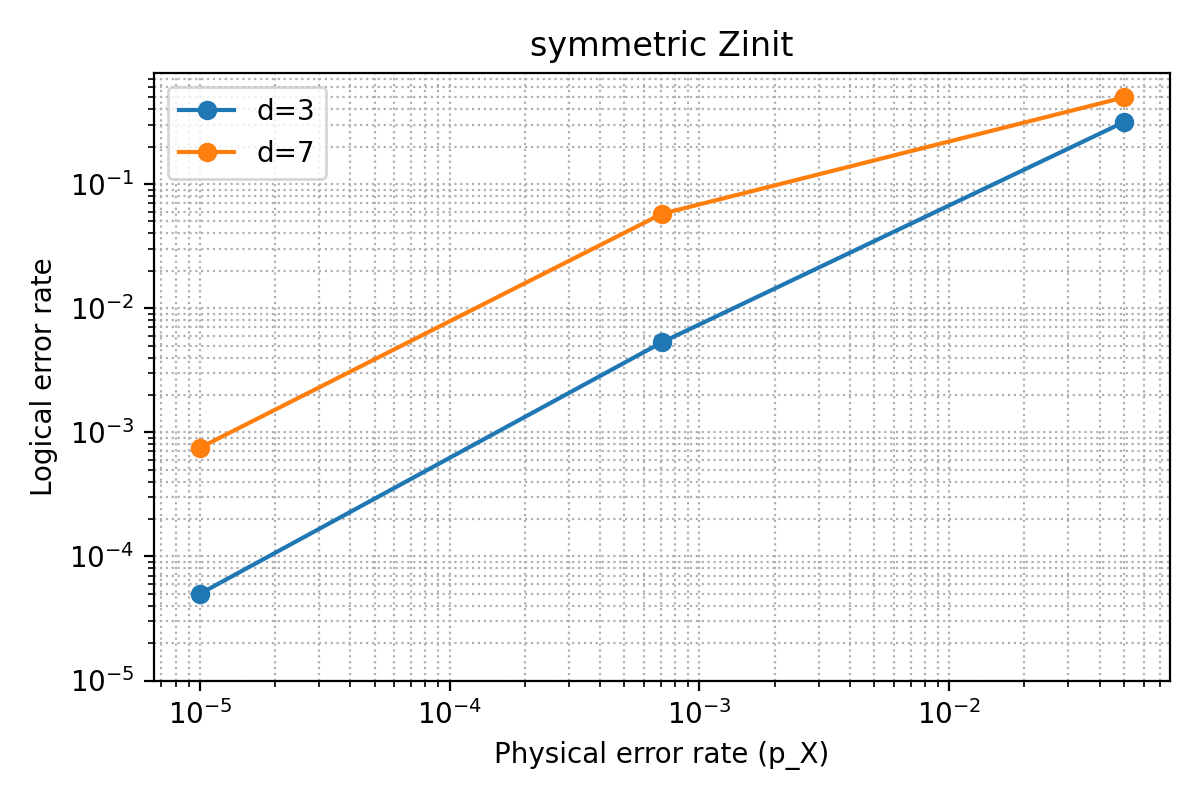
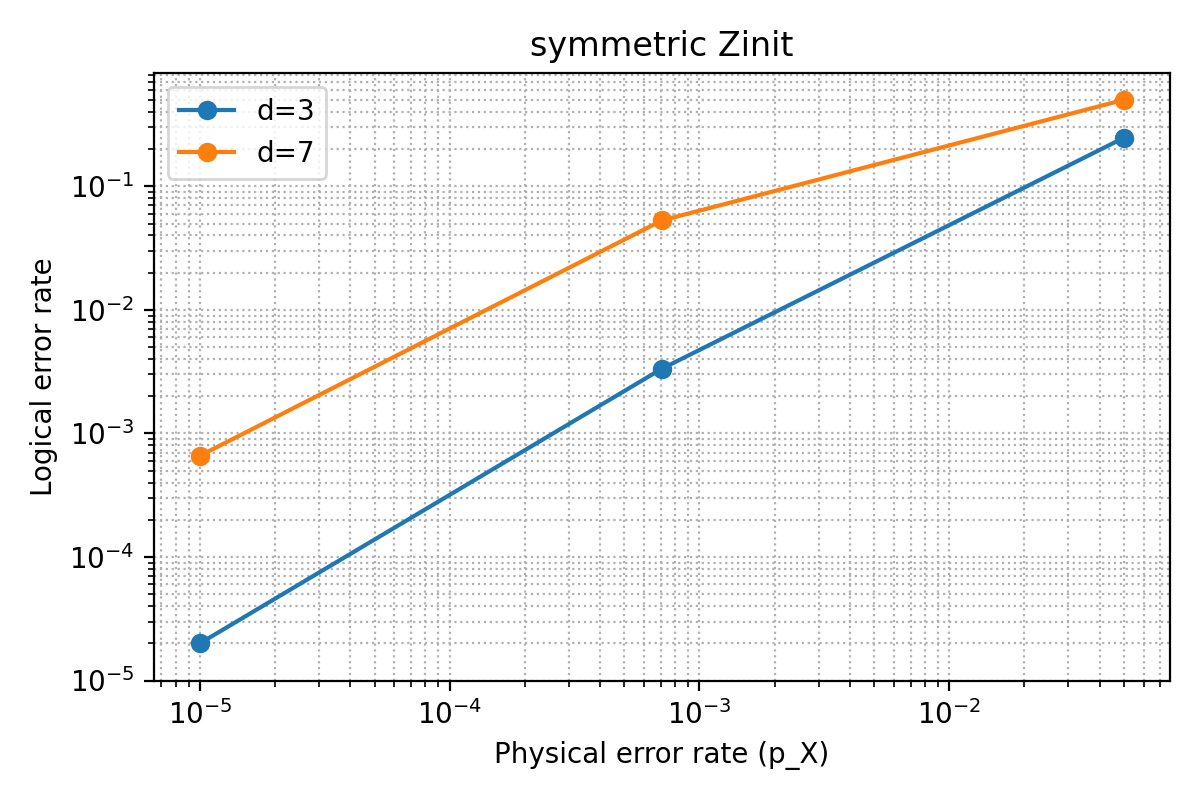
at least lattice surgery suppresses error

diff --git a/src/surface_code/measurement_half.py b/src/surface_code/measurement_half.py
@@ -107,14 +107,6 @@ class MeasurementHalf:
             # (No spatial detectors are emitted here; spatial connectivity is
             # captured via error hyperedges in the DEM and temporal chaining.)
             
-            # Pad state.prev dictionary to number of stabilizers for each name
-            for name in names:
-                stabs = self.builder.layout.patches[name].z_stabs if self.basis == "Z" else self.builder.layout.patches[name].x_stabs
-                if name not in prev_dict:
-                    prev_dict[name] = [None] * len(stabs)
-                elif len(prev_dict[name]) < len(stabs):
-                    prev_dict[name].extend([None] * (len(stabs) - len(prev_dict[name])))
-            
             # Process each patch
             for name in names:
                 # Segment tracking: update last seen; first is set on first temporal edge
@@ -139,8 +131,17 @@ class MeasurementHalf:
                             detector_manager.mark_row_dynamic(name, self.basis, int(skipped))
                 
                 # Record temporal detector edges (absolute measurement indices) for non-skipped rows
-                p_list = list(prev_dict.get(name, []))
+                # CRITICAL: Get prev_dict fresh from state to ensure we have the latest values
+                # After warmup round, state.prev.z_prev/x_prev gets reassigned, so we need to refresh the reference
+                # Refresh prev_dict reference to ensure we have the latest state after potential reassignment
+                prev_dict_refresh = state.prev.z_prev if self.basis == "Z" else state.prev.x_prev
+                p_list = list(prev_dict_refresh.get(name, []))
                 c_list = list(meas_curr.get(name, []))
+                
+                # Pad p_list to match c_list length if needed (for cases where stabilizer count changed)
+                # This ensures zip_longest works correctly
+                if len(p_list) < len(c_list):
+                    p_list.extend([None] * (len(c_list) - len(p_list)))
                 from itertools import zip_longest as _ziplg
                 has_history = any(val is not None for val in p_list)
                 for si, (a, b) in enumerate(_ziplg(p_list, c_list, fillvalue=None)):

diff --git a/src/surface_code/builder.py b/src/surface_code/builder.py
@@ -391,9 +391,20 @@ class GlobalStimBuilder:
                 measure_z = getattr(op, "measure_z", True)
                 measure_x = getattr(op, "measure_x", True)
 
+                # Check if this is the warmup round (first round with no previous measurements)
+                # The warmup round establishes reference measurements before noise, matching the old builder behavior
+                is_warmup = all(
+                    name not in state.prev.z_prev and name not in state.prev.x_prev
+                    for name in names
+                )
+
                 # Z half
                 circuit.append_operation("TICK")
-                if cfg.p_x_error:
+                # Skip noise for warmup round - it should establish clean reference measurements
+                # This matches the old builder which created reference measurements before noisy cycles
+                # CRITICAL: Warmup round must be noise-free to establish clean reference measurements
+                # Without this, reference measurements are contaminated and error correction breaks
+                if not is_warmup and cfg.p_x_error:
                     circuit.append_operation("X_ERROR", list(range(layout.global_n())), cfg.p_x_error)
                 
                 z_half = MeasurementHalf(self, "Z")
@@ -416,7 +427,8 @@ class GlobalStimBuilder:
 
                 # X half
                 circuit.append_operation("TICK")
-                if cfg.p_z_error:
+                # Skip noise for warmup round - it should establish clean reference measurements
+                if not is_warmup and cfg.p_z_error:
                     circuit.append_operation("Z_ERROR", list(range(layout.global_n())), cfg.p_z_error)
                 
                 x_half = MeasurementHalf(self, "X")

diff --git a/src/surface_code/detector_manager.py b/src/surface_code/detector_manager.py
@@ -226,10 +226,13 @@ class DetectorManager:
         p_x = self._noise_model.get("p_x_error", 0.0) or 0.0
         p_z = self._noise_model.get("p_z_error", 0.0) or 0.0
 
+        # Temporal and wrap detectors are ALWAYS kept - they form the fundamental
+        # structure of the error correction graph, connecting measurements across time.
+        # This matches the old builder behavior where temporal detectors were always created.
         if tag in ("z_temporal", "z_wrap"):
-            return (p_meas > 0.0) or (p_x > 0.0) or self._row_is_dynamic(context, "Z")
+            return True  # Always keep - structural detectors
         if tag in ("x_temporal", "x_wrap"):
-            return (p_meas > 0.0) or (p_z > 0.0) or self._row_is_dynamic(context, "X")
+            return True  # Always keep - structural detectors
         if tag in ("rough_temporal", "smooth_temporal"):
             seam_key = self._context_seam_key(context)
             return seam_key is not None and self._seam_is_dynamic(seam_key)

diff --git a/scripts/cli.py b/scripts/cli.py
@@ -138,7 +138,7 @@ Examples:
     main_group = parser.add_argument_group("Main execution flags")
     main_group.add_argument(
         "--benchmark",
-        default="parity_check", #simple_1q_xzh
+        default="simple_1q_xzh", #simple_1q_xzh
         choices=sorted(BENCHMARKS.keys()),
         help="Logical circuit template (used for transpile or simulation).",
     )
@@ -267,7 +267,7 @@ Examples:
     sim_group.add_argument(
         "--shots",
         type=int,
-        default=10**5,
+        default=10**4,
         help="Number of Monte Carlo samples"
     )
     sim_group.add_argument(

diff --git a/BUILDER_COMPARISON.md b/BUILDER_COMPARISON.md
@@ -1,0 +1,113 @@
+# Builder Comparison: Old vs New
+
+## Key Differences
+
+### Old Builder (`stim_builder.py`) - Simple and Direct
+
+**Structure:**
+1. Initialize qubits
+2. Logical start measurement (if init_label)
+3. **Reference measurements** (before noisy cycles) - establishes baseline
+4. For each round:
+   - Z half: apply X noise → measure Z stabilizers → create detectors (prev vs curr)
+   - X half: apply Z noise → measure X stabilizers → create detectors (prev vs curr)
+5. Logical end measurement → OBSERVABLE_INCLUDE
+
+**Key Principles:**
+- **Immediate detector creation**: `circuit.append_operation("DETECTOR", ...)` directly
+- **Simple temporal chaining**: Compare prev vs curr measurements, create detector
+- **Reference before noise**: Reference measurements establish baseline before any noise
+- **Direct noise placement**: Noise applied right before measurements in each half
+- **No deferred operations**: Everything happens immediately
+
+**Detector Creation:**
+```python
+def _add_detectors(self, circuit, prev, curr):
+    for curr_idx, prev_idx in zip(curr, prev):
+        circuit.append_operation(
+            "DETECTOR",
+            [self._rec_from_abs(circuit, prev_idx), self._rec_from_abs(circuit, curr_idx)],
+        )
+```
+
+### New Builder (`builder.py` + `MeasurementHalf`) - Complex with Lattice Surgery
+
+**Structure:**
+1. Initialize qubits
+2. Logical start measurement (if explicit_logical_start)
+3. **Warmup round** (no noise) - establishes reference measurements
+4. For each round:
+   - Z half: apply X noise → MeasurementHalf.measure_round() → defer detectors
+   - X half: apply Z noise → MeasurementHalf.measure_round() → defer detectors
+5. Close segments (wrap detectors)
+6. Logical end measurement → ObservableManager handles
+7. **Emit all deferred detectors** at the end
+
+**Key Differences:**
+- **Deferred detector creation**: `detector_manager.defer_detector()` → emitted at end
+- **Complex segment tracking**: SegmentTracker manages temporal chains
+- **Boundary handling**: DetectorManager handles boundary anchors
+- **Merge support**: MergeManager handles lattice surgery operations
+- **Observable management**: ObservableManager handles observables
+
+**Potential Issues:**
+
+1. **Detector Deferral**: Detectors are deferred and emitted at the end. While this should work, the timing might affect error model construction.
+
+2. **Segment Tracking Complexity**: The SegmentTracker adds complexity that might introduce bugs in simple cases.
+
+3. **Boundary Handling**: The new builder has complex boundary anchor logic that might interfere with simple error correction.
+
+4. **Reference Measurement Timing**: The warmup round should work like the old reference, but the initialization of `state.prev` might not be exactly equivalent.
+
+5. **Noise Model in Detector Emission**: The `emit_all_detectors` function receives a noise model, but temporal detectors should always be kept regardless of noise model.
+
+## Critical Observations
+
+### Old Builder Detector Creation Flow:
+```
+Round 0 (Reference): measure → store in sz_prev/sx_prev
+Round 1: noise → measure → detector(reference, round1) → update prev
+Round 2: noise → measure → detector(round1, round2) → update prev
+```
+
+### New Builder Detector Creation Flow:
+```
+Warmup: measure → store in state.prev.z_prev/x_prev
+Round 1: noise → measure → defer_detector(warmup, round1) → update prev
+Round 2: noise → measure → defer_detector(round1, round2) → update prev
+...
+End: emit_all_detectors() → convert deferred to DETECTOR operations
+```
+
+## Issues Found and Fixed
+
+### CRITICAL BUG FIXED: Noise Applied to Warmup Round
+
+**Problem**: The new builder was applying noise to the warmup round, which should establish clean reference measurements before any noise is introduced. This broke error correction because the reference measurements were contaminated with noise.
+
+**Root Cause**: The builder applied noise before every `MeasureRound` operation, including the warmup round. The warmup round should be noise-free to match the old builder's behavior of creating reference measurements before noisy cycles.
+
+**Fix**: Added a check to detect the warmup round (when `state.prev.z_prev` and `state.prev.x_prev` are empty for all patches) and skip noise application for that round. This ensures:
+- Warmup round: No noise → clean reference measurements → stored in `state.prev`
+- First round: Noise → measurements → detectors (warmup vs first round)
+- Subsequent rounds: Noise → measurements → detectors (consecutive rounds)
+
+**Code Change**: Modified `builder.py` to check `is_warmup` flag before applying noise:
+```python
+is_warmup = all(
+    name not in state.prev.z_prev and name not in state.prev.x_prev
+    for name in names
+)
+if not is_warmup and cfg.p_x_error:
+    circuit.append_operation("X_ERROR", ...)
+```
+
+## Additional Verification Needed
+
+1. **Verify temporal detectors are always created**: The condition `if a is None or b is None or a == b: continue` should not skip detectors when warmup has been done. ✓ (Warmup round has empty prev, so no detectors created - correct behavior)
+
+2. **Check that deferred detector emission preserves detector structure**: The conversion from deferred detectors to DETECTOR operations must preserve the exact same structure as immediate creation. (Should be verified through testing)
+
+3. **Simplify for non-merge cases**: When there are no merges, the builder should now behave exactly like the old builder. (Should be verified through testing)
+
